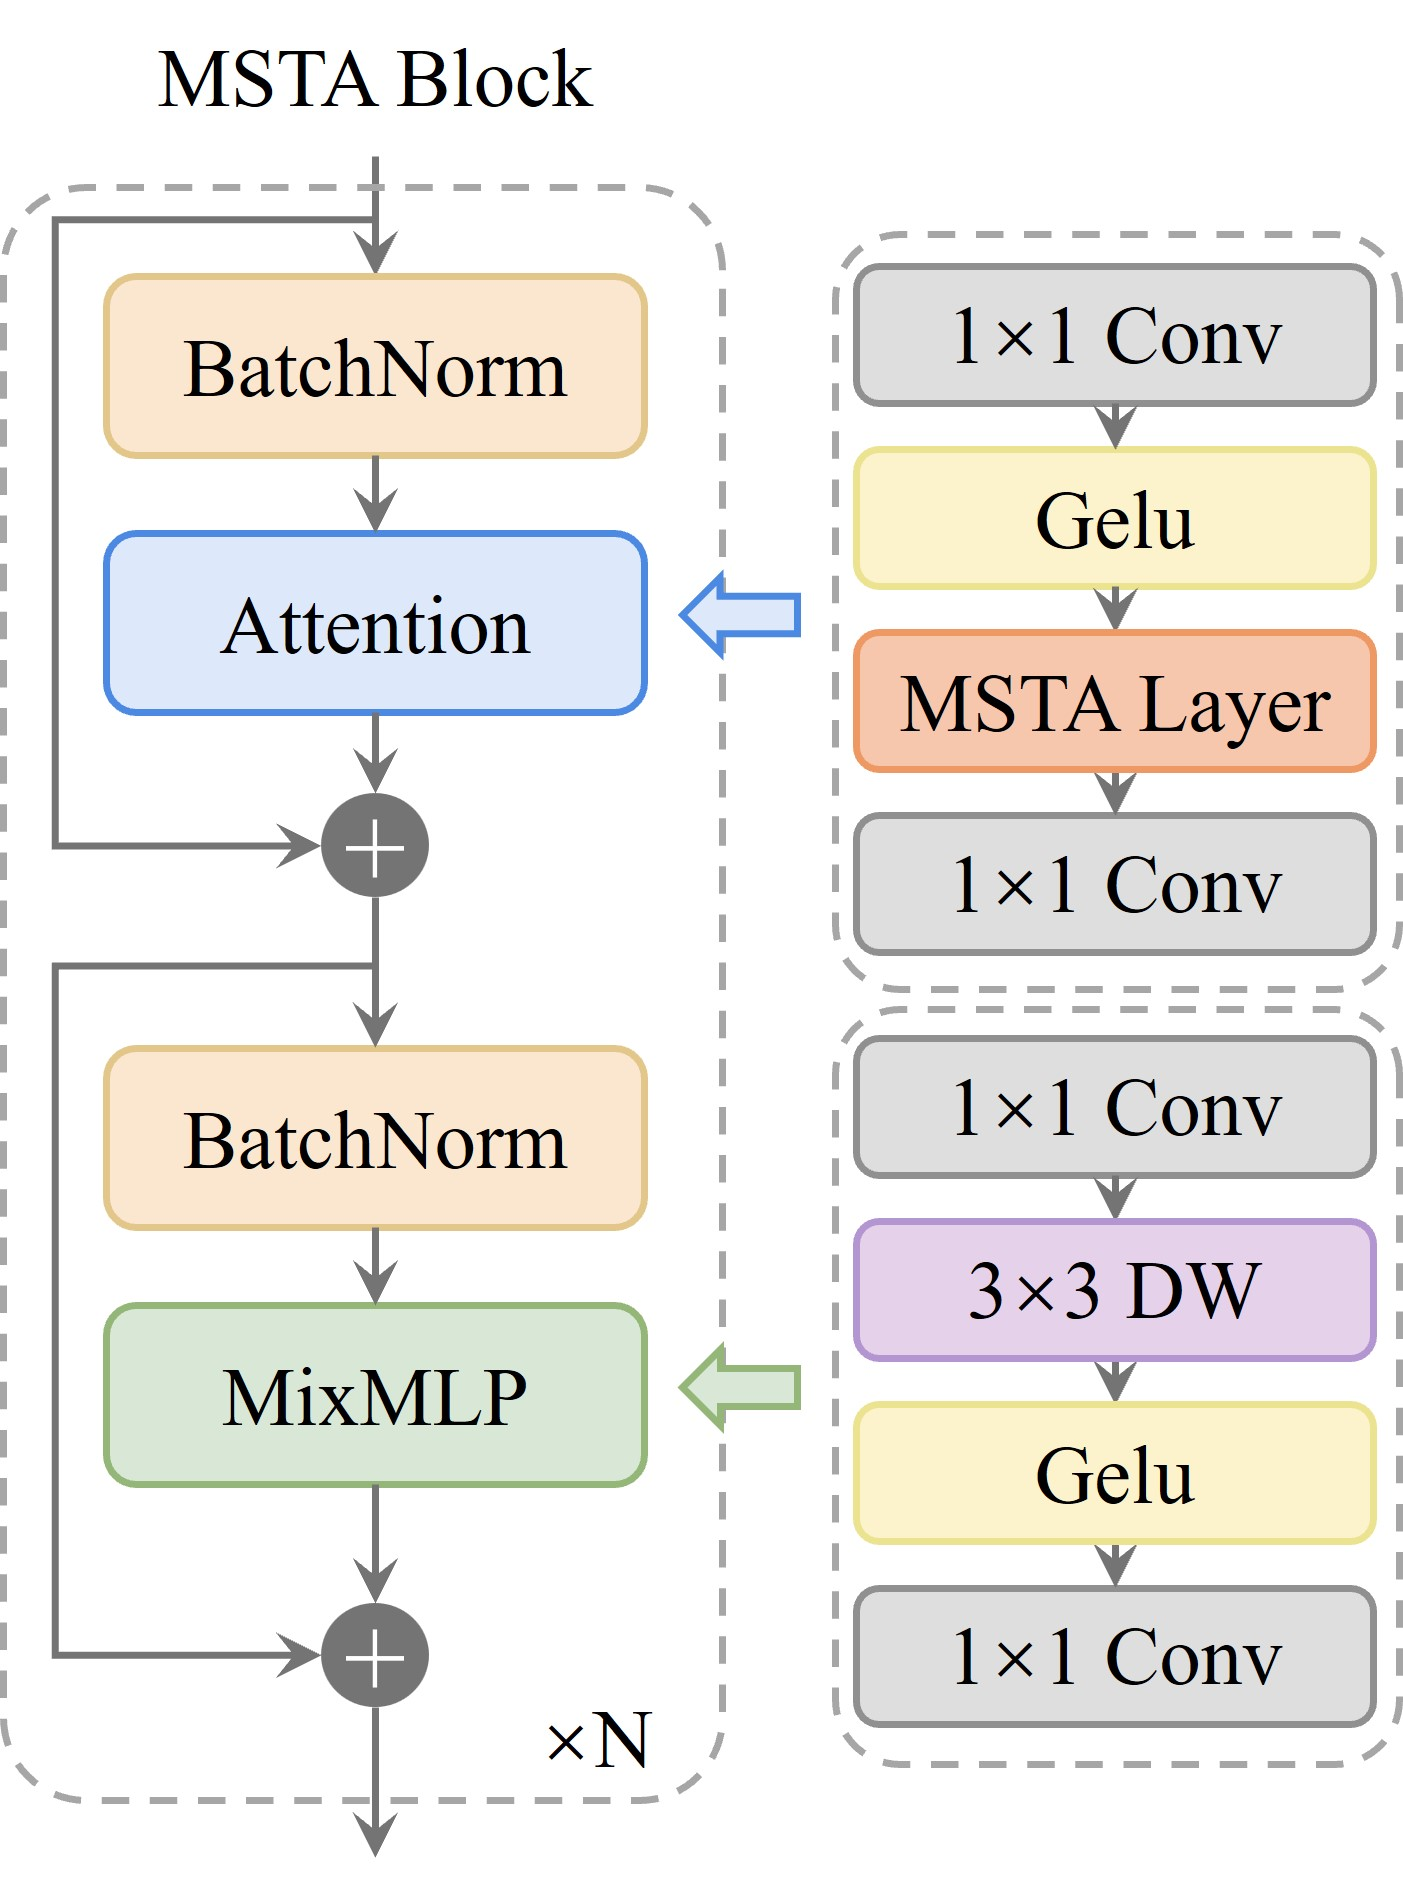
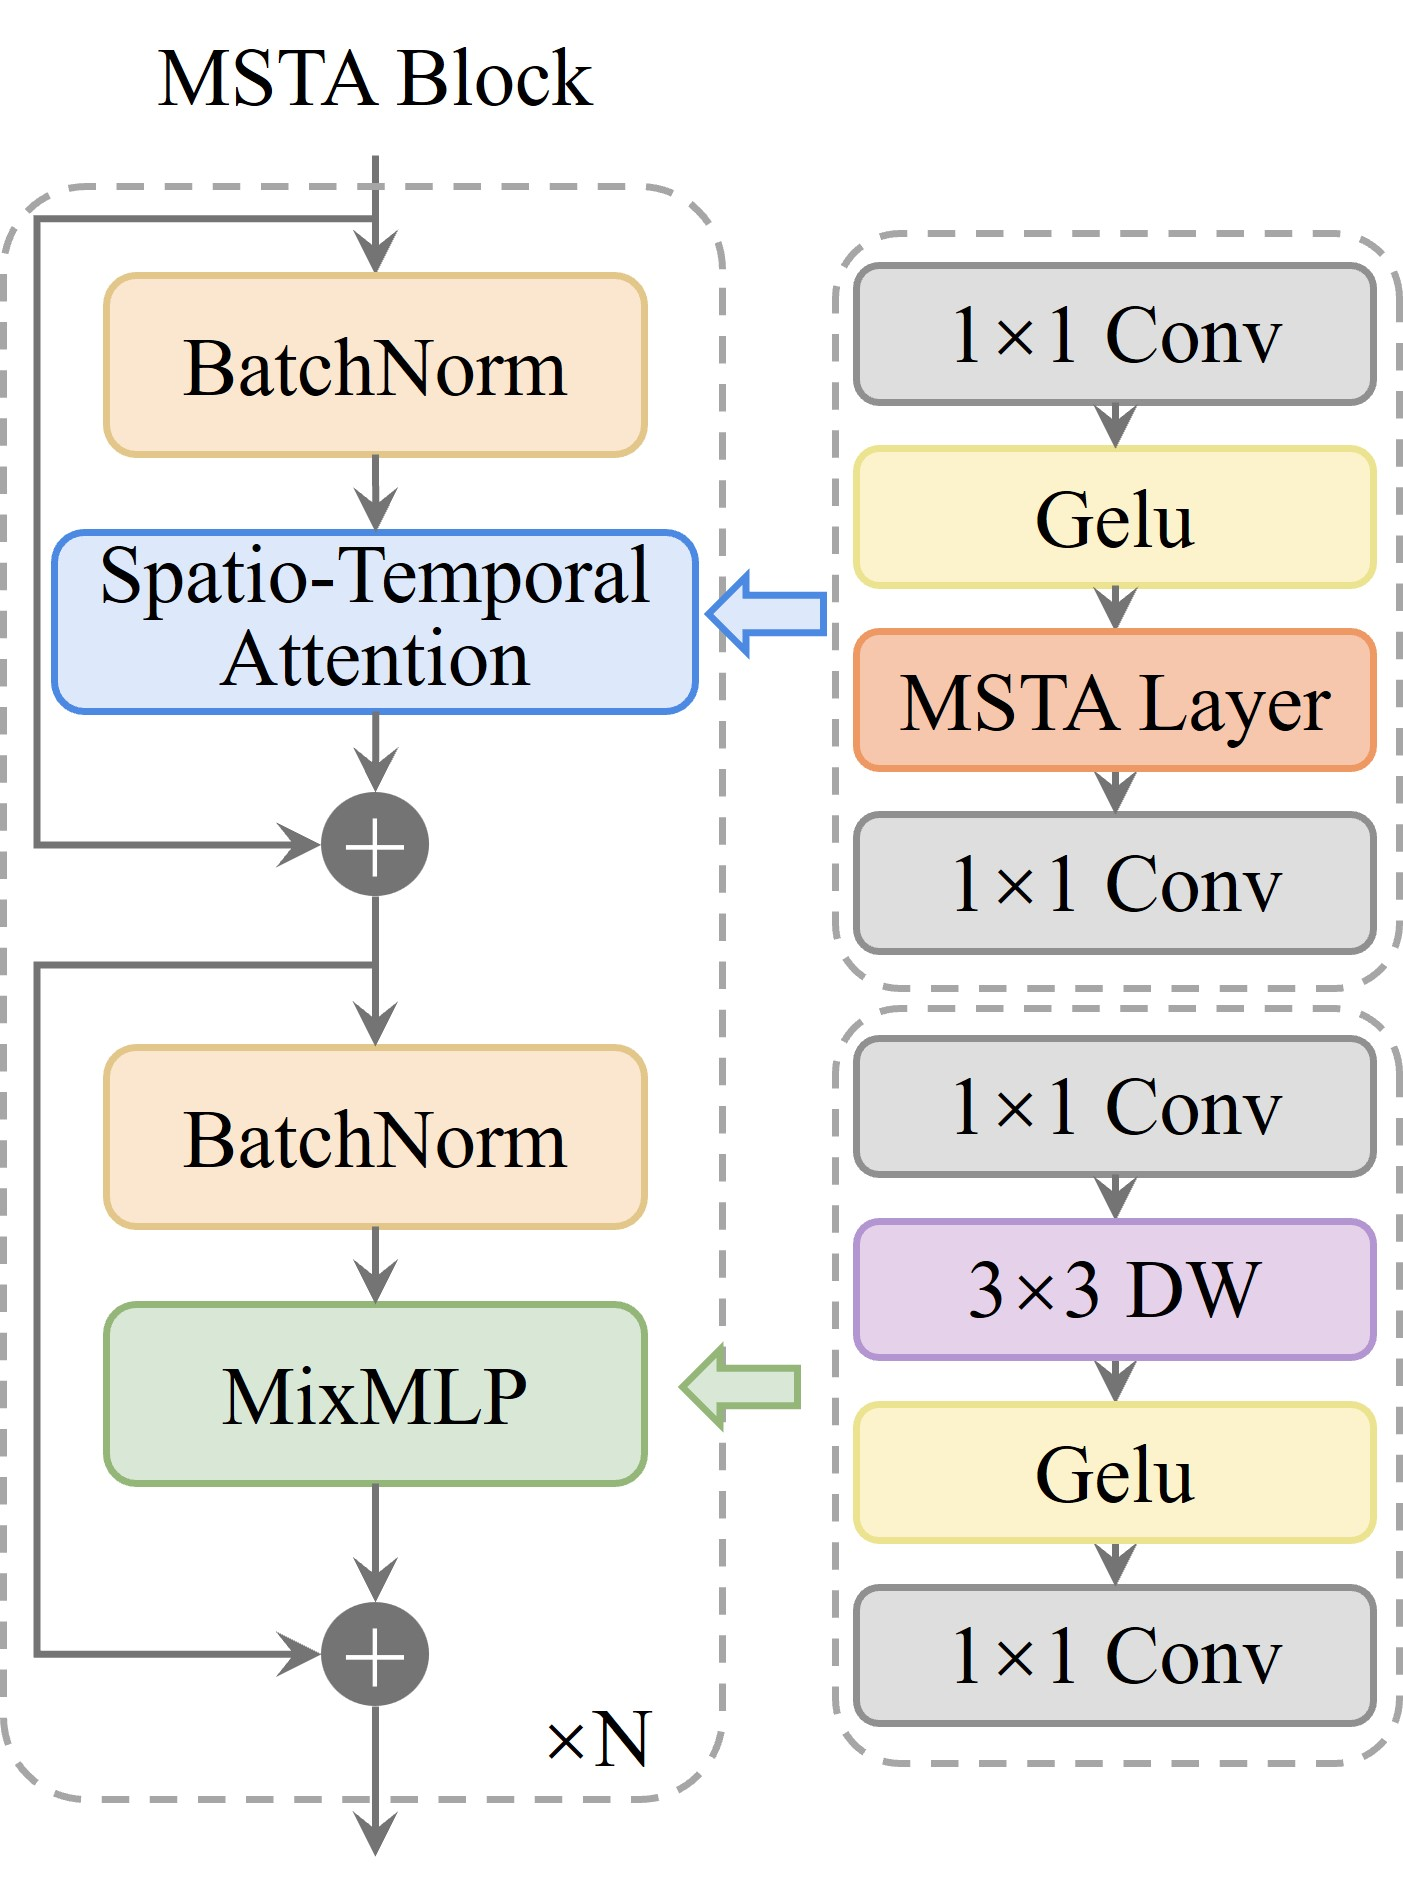
update fig & add output(inference)

diff --git a/modeltrain.py b/modeltrain.py
@@ -317,6 +317,10 @@ class modeltrain(object):
             for s, results in enumerate(results_step):
                 results_n = self.de_norm(results)
                 self.muti_inference_unit(s, results_n, metric_list, channel_names, "Original", min_max_delt, mean)
+        
+        results_step = np.array(results_step)
+        folder_path = osp.join(self.model_path, 'inference', 'results_step.npy')
+        np.save(folder_path, results_step)
 
 
     def muti_inference_unit(self, s, results, metric_list, channel_names, mode="Computed", min_max_delt=None, mean=False):

diff --git a/README.md b/README.md
@@ -23,9 +23,9 @@
 
 </details>
 
-## Multi Spatio_temporal Attention (MSTA)
+## Multiple Spatio_temporal Attention (MSTA) Network
 
-The code for **Multi Spatio_temporal Attention (MSTA)** Layer can  be found in `MSTA/MSTA.py`
+The code for **Multiple Spatio_temporal Attention (MSTA)** Layer can  be found in `MSTA/MSTA.py`
 
 The detailed **MSTA** code (Spatial Encoder/Decoder & MSTA module) can be found in `models/simvp_model.py` and `modules/simvp_modules.py`
 
@@ -48,8 +48,8 @@ The detailed **MSTA** code (Spatial Encoder/Decoder & MSTA module) can be found 
 <img src=".\fig\MSTA_flow_chart.jpg" width="50%" />
 </p>
 
-- **Large Kernel Attention (LKA) & Multi-dimensional Channel Attention (MCA)**
+- **Large Kernel Attention (LKA) & Multiple Fusion Attention (MFA)**
 
 <p align="center" width="100%">
-<img src=".\fig\MSTA.jpg" alt="LKA & MCA" width="70%" />
+<img src=".\fig\MSTA.jpg" alt="LKA & MFA" width="70%" />
 </p>
